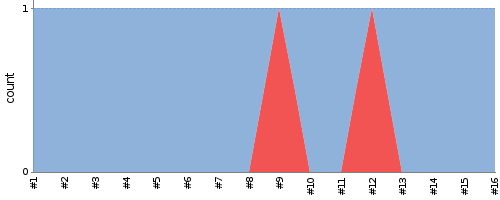
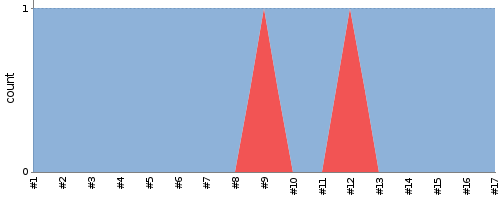
update report

Changed region(s): [[0.18, 0.06, 1.0, 0.99], [0.12, 0.87, 0.15, 0.96]]

diff --git a/index.md b/index.md
@@ -1,7 +1,7 @@
 ---
 layout: default
 ---
-Last update : 2016/01/30 05:02:36
+Last update : 2016/01/30 05:10:36
   
 ### Job Summary
 ___
@@ -150,11 +150,12 @@ ___
 ___
 #### Build Stability
 ![Jenkins Icon](http://jenkinshrg.github.io/images/48x48/health-60to79.png)
-69%
+71%
   
 #### Build History
 |Status|Time|Duration|Inspection|Test|Coverage|Changes|Build|Console|Image|Video|Note|
 |---|---|---|---|---|---|---|---|---|---|---|---|---|
+|![Jenkins Icon](http://jenkinshrg.github.io/images/24x24/blue.png)SUCCESS|2016/01/30 05:00|8 min.||0 err.||||[irex-balance-beam-auto.txt](https://drive.google.com/file/d/0B54sHwaxmuM4ZDlyNi0wQWNGQms/view?usp=drivesdk)<br>|[irex-balance-beam-auto.png](https://drive.google.com/file/d/0B54sHwaxmuM4NzN4cGlaT0JDTmc/view?usp=drivesdk)<br>|[irex-balance-beam-auto.ogv](https://drive.google.com/file/d/0B54sHwaxmuM4eHNSOE5lUFVKeEk/view?usp=drivesdk)<br>||
 |![Jenkins Icon](http://jenkinshrg.github.io/images/24x24/blue.png)SUCCESS|2016/01/30 04:00|8 min.||0 err.||||[irex-balance-beam-auto.txt](https://drive.google.com/file/d/0B54sHwaxmuM4aWVhN1RNajNOQ28/view?usp=drivesdk)<br>|[irex-balance-beam-auto.png](https://drive.google.com/file/d/0B54sHwaxmuM4YjVQVVBpTDBUYWs/view?usp=drivesdk)<br>|[irex-balance-beam-auto.ogv](https://drive.google.com/file/d/0B54sHwaxmuM4SUpteFN1OWg1QTg/view?usp=drivesdk)<br>||
 |![Jenkins Icon](http://jenkinshrg.github.io/images/24x24/blue.png)SUCCESS|2016/01/30 03:00|8 min.||0 err.||||[irex-balance-beam-auto.txt](https://drive.google.com/file/d/0B54sHwaxmuM4MjlFUmwzUFhFa0k/view?usp=drivesdk)<br>|[irex-balance-beam-auto.png](https://drive.google.com/file/d/0B54sHwaxmuM4Y1NCajdQQ0V2azQ/view?usp=drivesdk)<br>|[irex-balance-beam-auto.ogv](https://drive.google.com/file/d/0B54sHwaxmuM4QzlWQmFqVTk5V1k/view?usp=drivesdk)<br>||
 |![Jenkins Icon](http://jenkinshrg.github.io/images/24x24/blue.png)SUCCESS|2016/01/30 02:00|8 min.||0 err.||||[irex-balance-beam-auto.txt](https://drive.google.com/file/d/0B54sHwaxmuM4Y0hDeEJkQUx1ZG8/view?usp=drivesdk)<br>|[irex-balance-beam-auto.png](https://drive.google.com/file/d/0B54sHwaxmuM4X1BFMzNhX3FZc0k/view?usp=drivesdk)<br>|[irex-balance-beam-auto.ogv](https://drive.google.com/file/d/0B54sHwaxmuM4SUstUlVQR1ZZN1k/view?usp=drivesdk)<br>||
